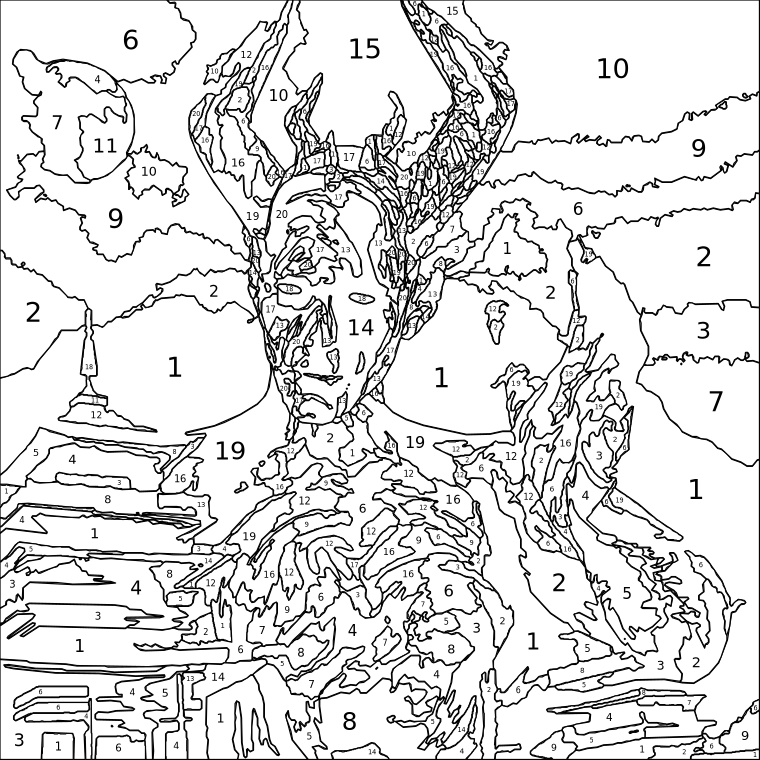
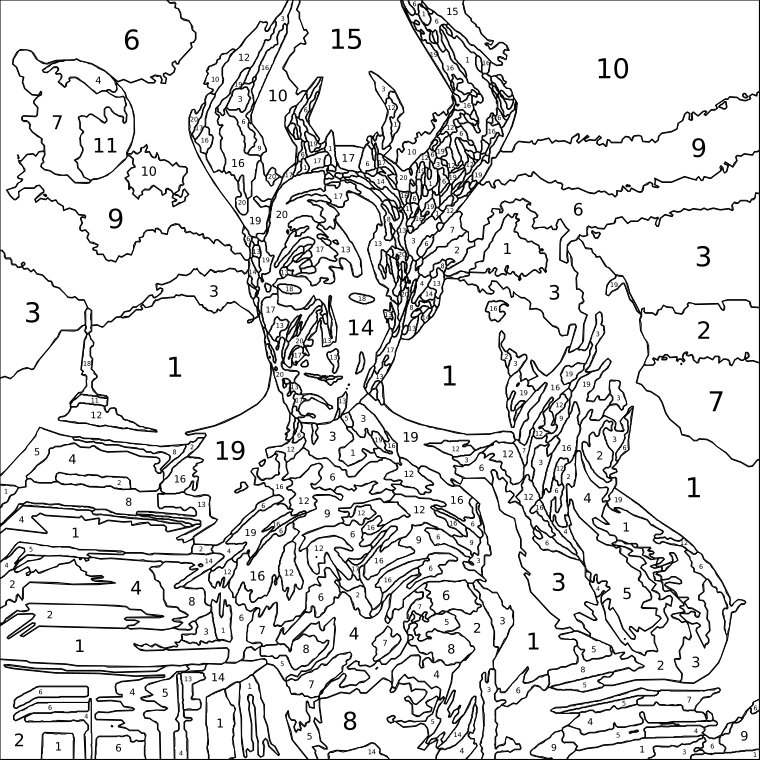
Docs: refresh example gallery with the Phase 16 algorithm
Regenerate the outline + painted-preview for all six examples with the
adaptive-contour / edge-aware-merge / palette-separation pipeline (originals
unchanged). Update RU + EN captions to the palettes the new pipeline actually
produces (fish-tunnel 17, pixie 12; others unchanged).

diff --git a/README.md b/README.md
@@ -62,8 +62,8 @@
 | <img src="docs/gallery/stars-girl-original.jpg" width="250"><br><sub>24 цвета · Детально</sub> | <img src="docs/gallery/stars-girl-outline.png" width="250"> | <img src="docs/gallery/stars-girl-preview.png" width="250"> |
 | <img src="docs/gallery/demon-original.jpg" width="250"><br><sub>20 цветов · Детально</sub> | <img src="docs/gallery/demon-outline.png" width="250"> | <img src="docs/gallery/demon-preview.png" width="250"> |
 | <img src="docs/gallery/meme-original.jpg" width="250"><br><sub>16 цветов · Детально</sub> | <img src="docs/gallery/meme-outline.png" width="250"> | <img src="docs/gallery/meme-preview.png" width="250"> |
-| <img src="docs/gallery/fish-tunnel-original.jpg" width="250"><br><sub>20 цветов · Детально</sub> | <img src="docs/gallery/fish-tunnel-outline.png" width="250"> | <img src="docs/gallery/fish-tunnel-preview.png" width="250"> |
-| <img src="docs/gallery/pixie-original.jpg" width="250"><br><sub>16 цветов · Детально</sub> | <img src="docs/gallery/pixie-outline.png" width="250"> | <img src="docs/gallery/pixie-preview.png" width="250"> |
+| <img src="docs/gallery/fish-tunnel-original.jpg" width="250"><br><sub>17 цветов · Детально</sub> | <img src="docs/gallery/fish-tunnel-outline.png" width="250"> | <img src="docs/gallery/fish-tunnel-preview.png" width="250"> |
+| <img src="docs/gallery/pixie-original.jpg" width="250"><br><sub>12 цветов · Детально</sub> | <img src="docs/gallery/pixie-outline.png" width="250"> | <img src="docs/gallery/pixie-preview.png" width="250"> |
 
 ## Архитектура
 

diff --git a/README.en.md b/README.en.md
@@ -61,8 +61,8 @@ preview of the painted result. Colour count and detail level are tuned per image
 | <img src="docs/gallery/stars-girl-original.jpg" width="250"><br><sub>24 colours · Detailed</sub> | <img src="docs/gallery/stars-girl-outline.png" width="250"> | <img src="docs/gallery/stars-girl-preview.png" width="250"> |
 | <img src="docs/gallery/demon-original.jpg" width="250"><br><sub>20 colours · Detailed</sub> | <img src="docs/gallery/demon-outline.png" width="250"> | <img src="docs/gallery/demon-preview.png" width="250"> |
 | <img src="docs/gallery/meme-original.jpg" width="250"><br><sub>16 colours · Detailed</sub> | <img src="docs/gallery/meme-outline.png" width="250"> | <img src="docs/gallery/meme-preview.png" width="250"> |
-| <img src="docs/gallery/fish-tunnel-original.jpg" width="250"><br><sub>20 colours · Detailed</sub> | <img src="docs/gallery/fish-tunnel-outline.png" width="250"> | <img src="docs/gallery/fish-tunnel-preview.png" width="250"> |
-| <img src="docs/gallery/pixie-original.jpg" width="250"><br><sub>16 colours · Detailed</sub> | <img src="docs/gallery/pixie-outline.png" width="250"> | <img src="docs/gallery/pixie-preview.png" width="250"> |
+| <img src="docs/gallery/fish-tunnel-original.jpg" width="250"><br><sub>17 colours · Detailed</sub> | <img src="docs/gallery/fish-tunnel-outline.png" width="250"> | <img src="docs/gallery/fish-tunnel-preview.png" width="250"> |
+| <img src="docs/gallery/pixie-original.jpg" width="250"><br><sub>12 colours · Detailed</sub> | <img src="docs/gallery/pixie-outline.png" width="250"> | <img src="docs/gallery/pixie-preview.png" width="250"> |
 
 ## Architecture
 
